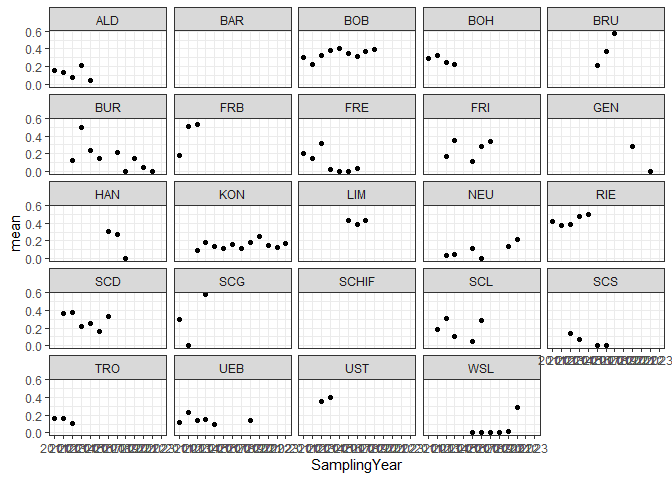
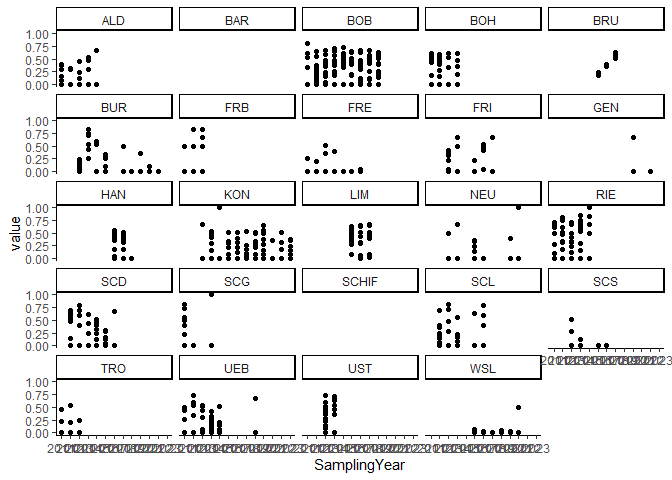
added PCA and trying to fit the GAM

Changed region(s): [[0.0, 0.0, 1.0, 1.0], [0.9375, 0.2812, 0.9688, 0.3125], [0.7188, 0.2812, 0.75, 0.3125]]

diff --git a/Presentation_Summer_24.md b/Presentation_Summer_24.md
@@ -183,9 +183,12 @@ kable(locus_table_SY_hexp)
 | SCHIF | 2016 | NaN | NaN | NaN | NaN | NaN | NaN | NaN | NaN | NaN | NaN | NaN | NaN | NaN | NaN | NaN |
 
 ``` r
-ggplot(locus_table_SY_hexp,aes(x=SamplingYear, y=mean)) +
+locus_table_SY_hexp_pivot <- pivot_longer(locus_table_SY_hexp,cols=3:16,names_to="locus",values_to="value")
+
+ggplot(locus_table_SY_hexp_pivot,aes(x=SamplingYear, y=value)) +
   geom_point() +
-  facet_wrap(vars(Pop))
+  facet_wrap(vars(Pop)) +
+  theme_classic()
 ```
 
 ![](Presentation_Summer_24_files/figure-gfm/Hexp%20table%20Pop%20SamplingYear-1.png)<!-- -->
@@ -655,3 +658,35 @@ kable(rarHexpTY)
 write_xlsx(rarHexpSY, "C:\\Users\\liaba\\OneDrive - Eidg. Forschungsanstalt WSL\\R\\truffles\\Presentation-Summer-24_files\\rarHexpSY.xlsx")
 write_xlsx(rarHexpTY, "C:\\Users\\liaba\\OneDrive - Eidg. Forschungsanstalt WSL\\R\\truffles\\Presentation-Summer-24_files\\rarHexpTY.xlsx")
 ```
+
+# PCA
+
+``` r
+#uncorrected PCA with allMarkersOnly dataset
+setPop(myData_genind_allMarkersOnly) <- ~Pop
+x.pops_allMarkersOnly <- tab(myData_genind_allMarkersOnly, freq=TRUE, NA.method="mean")
+pca.pops.allMarkersOnly <- dudi.pca(df = x.pops_allMarkersOnly, center = TRUE, scale = FALSE, scannf = FALSE, nf = 2)
+s.class(pca.pops.allMarkersOnly$li, fac=pop(myData_genind_allMarkersOnly), col=funky(15))
+```
+
+![](Presentation_Summer_24_files/figure-gfm/pca-1.png)<!-- -->
+
+``` r
+#clonecorrected PCA  with samplingYear
+cc_myData_genind_allMarkersOnly_SY <- clonecorrect(myData_genind_allMarkersOnly,strata=~Pop/SamplingYear)
+x.pops_cc.SY <- tab(cc_myData_genind_allMarkersOnly_SY, freq=TRUE, NA.method="mean")
+pca.pops_cc.SY <- dudi.pca(df = x.pops_cc.SY, center = TRUE, scale = FALSE, scannf = FALSE, nf = 2)
+s.class(pca.pops_cc.SY$li, fac=pop(cc_myData_genind_allMarkersOnly_SY), col=funky(15))
+```
+
+![](Presentation_Summer_24_files/figure-gfm/pca-2.png)<!-- -->
+
+``` r
+#clonecorrected PCA  with TruffleYear
+cc_myData_genind_allMarkersOnly_TY <- clonecorrect(myData_genind_allMarkersOnly,strata=~Pop/TruffleYear)
+x.pops_cc.TY <- tab(cc_myData_genind_allMarkersOnly_TY, freq=TRUE, NA.method="mean")
+pca.pops_cc.TY <- dudi.pca(df = x.pops_cc.TY, center = TRUE, scale = FALSE, scannf = FALSE, nf = 2)
+s.class(pca.pops_cc.TY$li, fac=pop(cc_myData_genind_allMarkersOnly_TY), col=funky(15))
+```
+
+![](Presentation_Summer_24_files/figure-gfm/pca-3.png)<!-- -->
